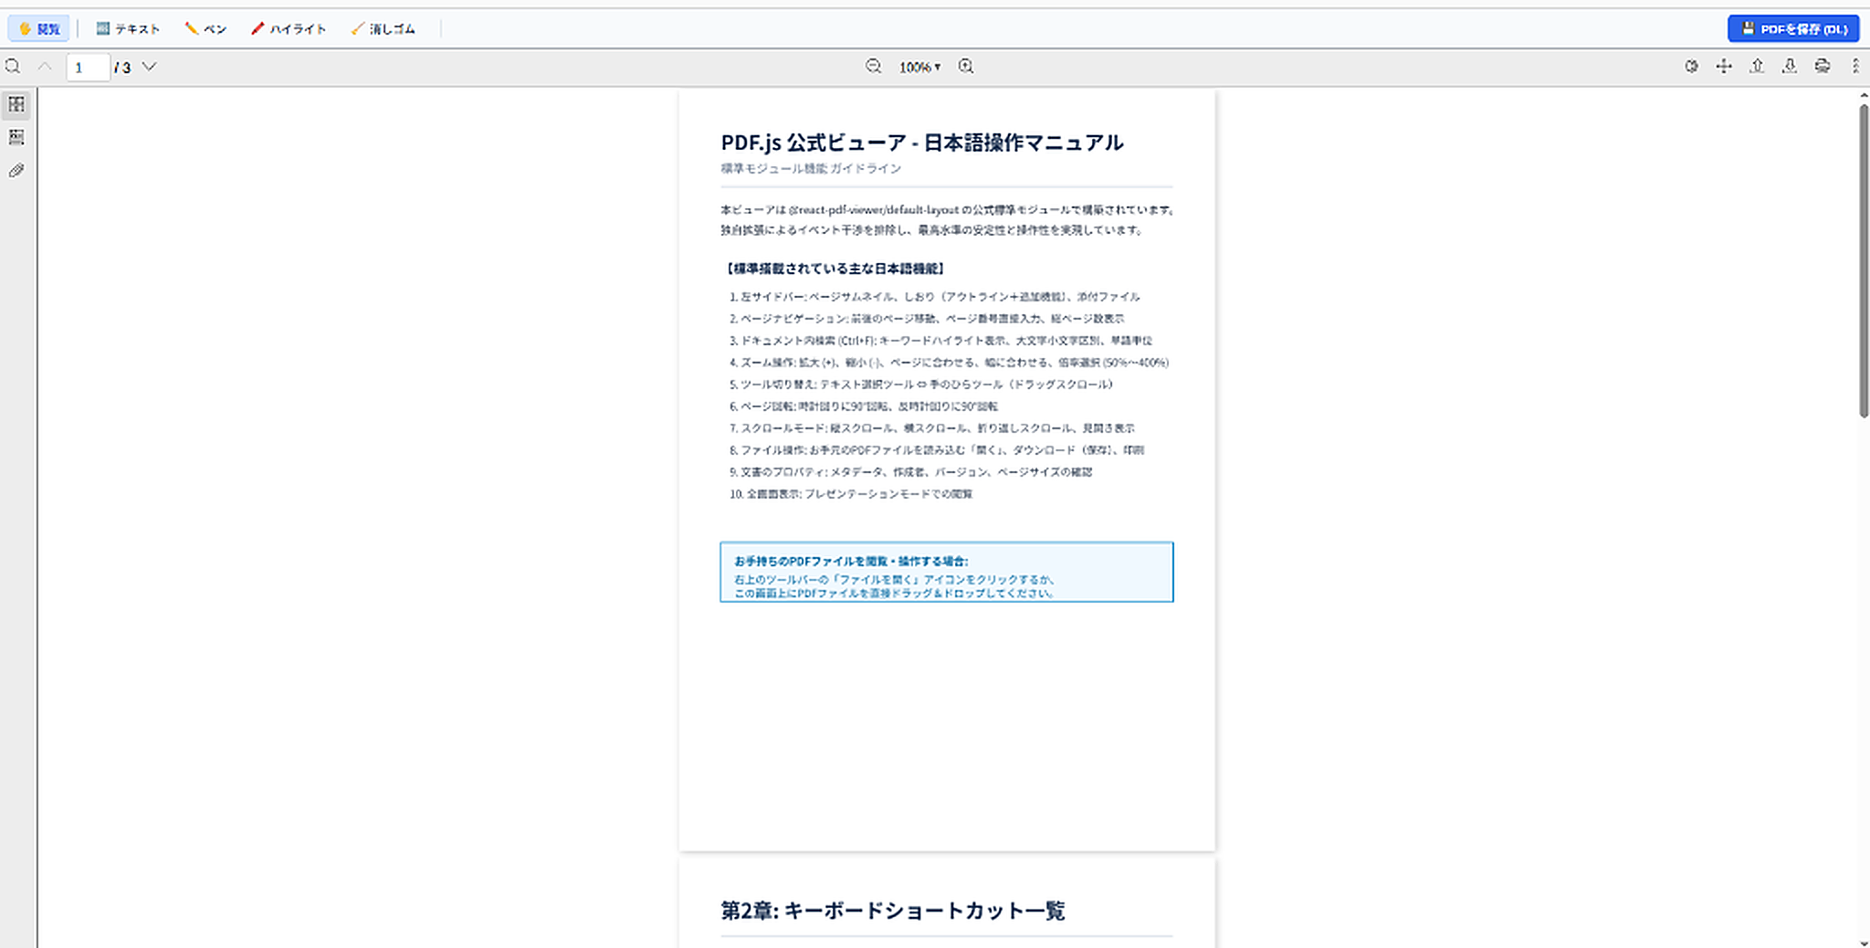
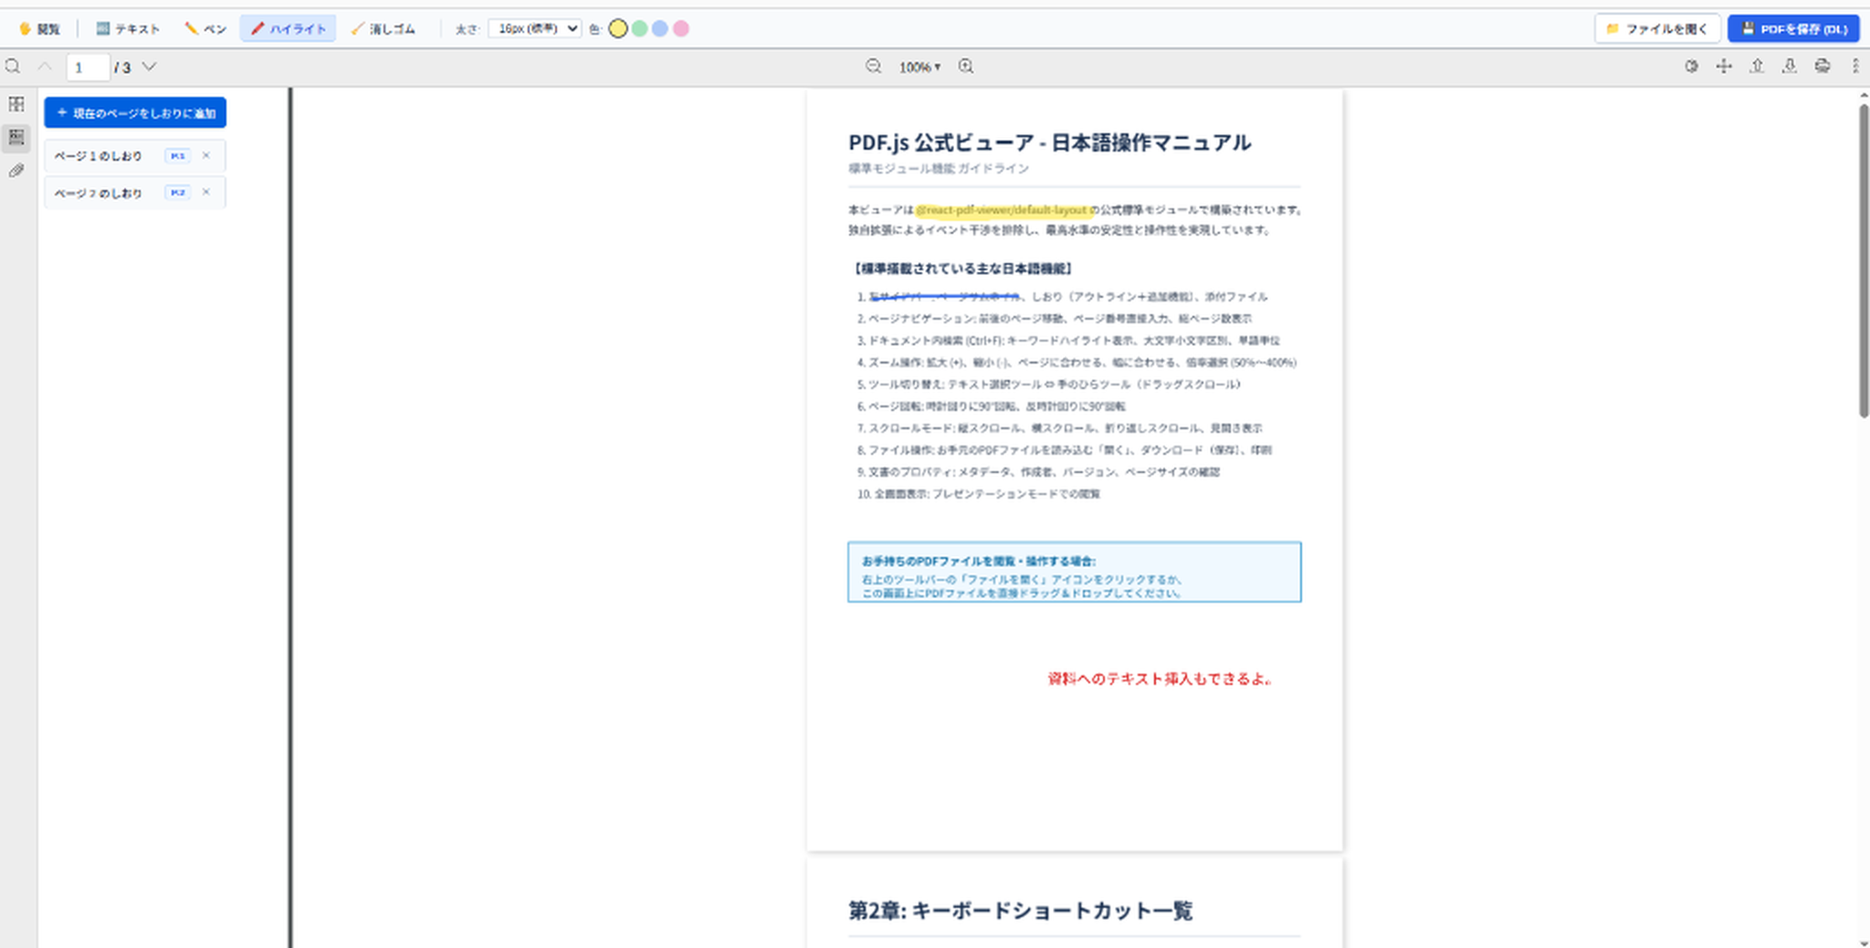
docs: Update README and screenshot with new features and text editing improvements

diff --git a/components/AnnotationLayer.jsx b/components/AnnotationLayer.jsx
@@ -293,7 +293,6 @@ function AnnotationText({
     const textValueRef = useRef(annotation.text || '');
     const inputRef = useRef(null);
     const isComposingRef = useRef(false);
-    const isCommittingRef = useRef(false);
     const lastCommitTimeRef = useRef(0);
     // ドラッグリスナーの参照を保持し、アンマウント時に確実にクリーンアップ
     const dragListenersRef = useRef(null);
@@ -317,7 +316,12 @@ function AnnotationText({
     // 編集モードになったら自動フォーカス
     useEffect(() => {
         if (isEditing) {
-            isCommittingRef.current = false;
+            // 編集中は移動用のリスナーを残さず、マウス操作を入力欄から分離する
+            if (dragListenersRef.current) {
+                window.removeEventListener('pointermove', dragListenersRef.current.onMove);
+                window.removeEventListener('pointerup', dragListenersRef.current.onUp);
+                dragListenersRef.current = null;
+            }
             const timer = setTimeout(() => {
                 if (inputRef.current) {
                     inputRef.current.focus();
@@ -338,8 +342,6 @@ function AnnotationText({
 
     // 確定処理：入力されたテキストで確定し、反映状態に切り替える（冪等・即時反映）
     const handleConfirm = useCallback((overrideText) => {
-        if (isCommittingRef.current) return;
-        isCommittingRef.current = true;
         lastCommitTimeRef.current = Date.now();
 
         let finalVal;
@@ -353,37 +355,39 @@ function AnnotationText({
 
         isComposingRef.current = false;
         onCommit(finalVal);
-
-        if (inputRef.current) {
-            inputRef.current.blur();
-        }
     }, [onCommit]);
 
     // フォーカスが外れた場合（blur）も自動確定
-    const handleBlur = (e) => {
-        // 「完了」ボタンや削除ボタンをクリックした時のblurはボタンのハンドラで処理するためスキップ
-        if (e.relatedTarget && e.relatedTarget.closest('.ann-text-actions')) {
-            return;
-        }
-        if (!isCommittingRef.current) {
-            const currentVal = inputRef.current ? inputRef.current.value : textValueRef.current;
-            handleConfirm(currentVal);
-        }
+    const handleBlur = () => {
+        const currentVal = inputRef.current ? inputRef.current.value : textValueRef.current;
+        handleConfirm(currentVal);
     };
 
     // キー入力処理
     const handleKeyDown = (e) => {
-        // 日本語IMEの変換中（文字変換確定のEnter）は確定させずIMEに委ねる
-        if (isComposingRef.current || e.nativeEvent?.isComposing || e.keyCode === 229) {
+        const nativeCompositionState = e.nativeEvent?.isComposing;
+        const isComposing = typeof nativeCompositionState === 'boolean'
+            ? nativeCompositionState
+            : isComposingRef.current;
+
+        // IME変換中のSpaceは変換操作なので、IMEへそのまま委ねる
+        if (isComposing) {
             return;
         }
-        if (e.key === 'Enter') {
-            e.preventDefault();
+
+        // 入力中のSpaceをPDFビューアのページ送りへ伝播させない（空白入力は許可）
+        if (e.key === ' ' || e.key === 'Spacebar' || e.code === 'Space') {
             e.stopPropagation();
-            const currentVal = inputRef.current ? inputRef.current.value : textValueRef.current;
-            handleConfirm(currentVal);
             return;
         }
+
+        if (e.key === 'Enter') {
+            e.stopPropagation();
+            e.preventDefault();
+            handleConfirm();
+            return;
+        }
+
         if (e.key === 'Escape') {
             e.preventDefault();
             e.stopPropagation();
@@ -399,7 +403,6 @@ function AnnotationText({
         if (e.target && typeof e.target.value === 'string') {
             textValueRef.current = e.target.value;
             setTextValue(e.target.value);
-            onUpdate({ text: e.target.value });
         }
     };
 
@@ -473,32 +476,34 @@ function AnnotationText({
             }}
         >
             {isEditing ? (
-                <>
+                <div
+                    onPointerDown={(e) => e.stopPropagation()}
+                    onPointerMove={(e) => e.stopPropagation()}
+                    onPointerUp={(e) => e.stopPropagation()}
+                    onMouseDown={(e) => e.stopPropagation()}
+                    onMouseMove={(e) => e.stopPropagation()}
+                    onMouseUp={(e) => e.stopPropagation()}
+                    onClick={(e) => e.stopPropagation()}
+                >
                     {/* 入力中の確定・削除アクションバー */}
                     <div 
                         className="ann-text-actions"
                         onPointerDown={(e) => e.stopPropagation()}
-                        onMouseDown={(e) => {
-                            e.preventDefault();
-                            e.stopPropagation();
-                        }}
+                        onMouseDown={(e) => e.stopPropagation()}
                         onDoubleClick={(e) => e.stopPropagation()}
                         onClick={(e) => e.stopPropagation()}
                     >
                         <button 
                             type="button"
                             className="ann-btn-confirm"
-                            onPointerDown={(e) => e.stopPropagation()}
-                            onMouseDown={(e) => {
-                                e.preventDefault();
+                            onPointerDownCapture={(e) => {
                                 e.stopPropagation();
+                                handleConfirm();
                             }}
-                            onDoubleClick={(e) => e.stopPropagation()}
                             onClick={(e) => {
                                 e.preventDefault();
                                 e.stopPropagation();
-                                const currentVal = inputRef.current ? inputRef.current.value : textValueRef.current;
-                                handleConfirm(currentVal);
+                                handleConfirm();
                             }}
                             title="テキストを確定して反映 (Enter)"
                         >
@@ -508,10 +513,7 @@ function AnnotationText({
                             type="button"
                             className="ann-btn-delete"
                             onPointerDown={(e) => e.stopPropagation()}
-                            onMouseDown={(e) => {
-                                e.preventDefault();
-                                e.stopPropagation();
-                            }}
+                            onMouseDown={(e) => e.stopPropagation()}
                             onDoubleClick={(e) => e.stopPropagation()}
                             onClick={(e) => {
                                 e.preventDefault();
@@ -533,7 +535,6 @@ function AnnotationText({
                         onChange={(e) => {
                             setTextValue(e.target.value);
                             textValueRef.current = e.target.value;
-                            onUpdate({ text: e.target.value });
                         }}
                         onCompositionStart={() => { isComposingRef.current = true; }}
                         onCompositionEnd={handleCompositionEnd}
@@ -546,7 +547,7 @@ function AnnotationText({
                         onPointerDown={(e) => e.stopPropagation()}
                         onClick={(e) => e.stopPropagation()}
                     />
-                </>
+                </div>
             ) : (
                 /* 反映状態（確定テキスト表示） */
                 <>

diff --git a/README.md b/README.md
@@ -2,7 +2,7 @@
 
 React 18、PDF.js、および pdf-lib をベースにした、高機能かつ軽量なブラウザ完結型 PDF ビューア＆アノテーション編集アプリケーションです。
 
-ローカル環境やサーバーサイドへのデータ送信を行わず、ブラウザ内のみで高速かつセキュアにPDFの閲覧・注釈追加・しおり管理・変更後の高解像度保存・印刷が完結します。
+ローカル環境やサーバーサイドへのデータ送信を一切行わず、ブラウザ内のみで高速かつセキュアにPDFの閲覧・注釈追加・しおり管理・変更後の高解像度保存・印刷が完結します。
 
 <p align="center">
   <img src="docs/images/screenshot.png" alt="Web PDF Editor & Viewer UI Screenshot" width="100%" />
@@ -12,53 +12,78 @@ React 18、PDF.js、および pdf-lib をベースにした、高機能かつ軽
 
 ## 🌟 主な機能
 
-### 1. 高度なPDF閲覧 & 操作
-- **PDF.js 公式エンジン連携**: `@react-pdf-viewer` をベースにした高速・高精細なレンダリング。
-- **完全日本語ローカライズ**: ツールバーやサイドバー、ショートカット案内を完全日本語化。
-- **サムネイル & ページ移動**: サムネイル一覧からの直感的なジャンプ、ページスクロール対応。
-- **ドラッグ＆ドロップ対応**: ローカルのPDFファイルを画面上にドラッグ＆ドロップするだけで即座に開いて編集可能。
-- **キーボードショートカット**: 印刷（Ctrl+P / Cmd+P）、拡大縮小、ページ遷移などのショートカットキーをサポート。
+### 1. 自由なPDF読み込み & 閲覧操作
+- **多彩なファイル読み込み**:
+  - 右上ツールバーの「**ファイルを開く**」ボタン
+  - キーボードショートカット (`Ctrl+O` / `Cmd+O`)
+  - ウィンドウ全体へのPDFファイルの**ドラッグ＆ドロップ**（全画面ドロップオーバーレイ表示）
+- **完全なドキュメント状態リセット**:
+  - 新しいPDFを開いた際、既存の注釈・ハイライト・しおり・ページ位置・履歴を安全に自動リセット。
+- **PDF.js 公式エンジン連携**: 高速・高精細なページレンダリング（拡大縮小・見開き・ページ回転対応）。
+- **完全日本語ローカライズ**: ツールバーやサイドバー、検索、プロパティ情報を完全日本語化。
 
 ### 2. 多彩な注釈・編集（アノテーション）機能
-- **✏ 手書きペン**: 
-  - 線の太さ（1px〜18px）およびカラー（青・赤・黒・緑・橙・紫）の柔軟なカスタマイズ。
-- **🖍 フリーハンドハイライト**: 
-  - 半透明マーカーによるフリーハンド下線・マーキング（4色対応）。
-- **💬 テキストボックス挿入**: 
-  - ツールバーからのワンクリック追加、または画面ダブルクリックによる任意位置への追加。
-  - テキストのフォントサイズ（12pt〜40pt）や文字色のリアルタイム変更。
-  - ドラッグ＆ドロップによる位置移動、インライン編集対応。
-- **📑 テキスト選択ハイライト**: 
+- **💬 テキストボックス挿入 & 高度な入力制御**:
+  - ツールバーボタンからの追加、または画面ダブルクリックによる任意座標への配置。
+  - ドラッグ＆ドロップによる位置移動、ダブルクリックによるインライン再編集。
+  - フォントサイズ（12px〜40px）および文字色（4色）のリアルタイム変更。
+  - **日本語IME・確定処理の最適化**: 変換確定のEnterとテキスト完了Enterの自動判別、Spaceキーによるビューア誤スクロール防止、入力欄外クリック（blur）や「✓ 完了」ボタンでの即座の確実な確定反映。
+- **✏ 手書きペン**:
+  - 線の太さ（1px〜18px）およびカラー（青・赤・黒・緑・橙・紫）の自由描画。
+- **🖍 フリーハンドハイライト**:
+  - 蛍光マーカー風の半透明ハイライト下線・マーキング（4色、10px〜32px）。
+- **📑 テキスト選択ハイライト**:
   - PDF文書内のテキストをマウスで選択するとポップアップが表示され、ワンクリックで4色（黄・緑・青・桃）のマーカーを付与。
-- **🧹 消しゴムツール**: 
-  - クリックまたはドラッグで、近接するペン線・ハイライト・テキストを判定してスムーズに消去。
+- **🧹 消しゴムツール**:
+  - クリックまたはドラッグで、近接するペン線・ハイライト・テキスト注釈を直感的に消去。
 
-### 3. しおり（Bookmark）管理機能
-- **カスタムしおりの追加**: 現在開いているページに対して、タイトルを指定して自由にしおりを追加可能。
-- **ページジャンプ**: しおり一覧をクリックすることで、該当ページへスムーズに自動スクロール。
+### 3. スマートなしおり（Bookmark）管理機能
+- **カスタムしおりの追加**: 現在開いているページに対して、ワンクリックで自由にしおりを追加可能。
+- **スムーズなページジャンプ**: しおり一覧をクリックすることで、該当ページへ自動スクロール。個別のしおり削除にも対応。
+- **クリーンなUI表示**: しおりが1件以上登録されている場合、空状態メッセージ（「しおりはありません」）を自動的に非表示化。
 - **文書本来のしおりの統合**: PDFファイル自身に含まれているアウトライン/目次情報も同時にサイドバー下部に表示。
 
-### 4. 変更後の高解像度PDF保存 & ダウンロード
-- **完全埋め込みエクスポート**: `pdf-lib` を使用し、手書き線・ハイライト・テキスト・しおりをPDFバイナリ構造に直接埋め込み。
-- **劣化のない高精細出力**: 300dpi相当のベクター/ラスター処理により、印刷や他ソフト（Adobe Acrobat等）で開いても文字化けや画質劣化が一切生じません。
+### 4. 作業保護（誤リロード・離脱防止機能）
+- **未保存警告（Unload Guard）**:
+  - 注釈の追加・変更・削除やしおりの編集など、未保存の変更がある状態でブラウザをリロードしたりタブを閉じようとした場合、ブラウザ標準の離脱確認ダイアログを表示して作業内容の喪失を防止。
 
-### 5. ネイティブ印刷プレビュー
-- **注釈反映済みの印刷**: 通常のPDF.js印刷では反映されない書き込み・テキスト内容を、独自バックエンド処理により変更後PDFとして瞬時に合成。
-- **ブラウザネイティブ印刷ダイアログ**: ブラウザ本来の印刷機能を呼び出し、A4用紙やプリンター設定に合わせて正確に印刷可能。
+### 5. 変更後の高解像度PDF保存 & ダウンロード
+- **完全クライアントサイド埋め込みエクスポート**:
+  - `pdf-lib` を使用し、手書き線・ハイライト・テキスト・しおりをPDFバイナリ構造に直接埋め込み。
+- **高い互換性と高精細出力**:
+  - 印刷や外部ソフト（Adobe Acrobat、Chrome等）で開いても文字化けや画質劣化が一切生じません。
+
+### 6. ネイティブ印刷プレビュー
+- **注釈反映済みの印刷**:
+  - 通常のPDF.js印刷では反映されない書き込み・テキスト内容を、独自バックエンド処理により変更後PDFとして瞬時に合成。
+- **ブラウザネイティブ印刷ダイアログ**:
+  - ブラウザ本来の印刷機能を呼び出し、A4用紙やプリンター設定に合わせて正確に印刷可能。
+
+---
+
+## ⌨ キーボードショートカット
+
+| ショートカット | 機能 |
+| :--- | :--- |
+| `Ctrl + O` / `Cmd + O` | PDFファイルを開く（ファイル選択ダイアログ） |
+| `Ctrl + P` / `Cmd + P` | 印刷プレビュー（注釈反映済み印刷） |
+| `Enter` | テキストボックス入力の完了・確定 |
+| `Escape` | テキストボックス編集の終了 |
+| `Delete` / `Backspace` | 選択中のテキストボックス・注釈を削除 |
+| `Ctrl + スクロール` | 画面の拡大・縮小 |
 
 ---
 
 ## 🛠 技術スタック
 
-| 分類 | ライブラリ / 技術 |
-| :--- | :--- |
-| **フロントエンド** | React 18, React DOM |
-| **ビルドツール** | Vite 5 |
-| **PDFビューア** | `@react-pdf-viewer/core`, `@react-pdf-viewer/default-layout`, `@react-pdf-viewer/highlight` |
-| **PDFレンダラー** | `pdfjs-dist` (3.11) |
-| **PDF編集・生成** | `pdf-lib` |
-| **言語** | JavaScript (ES Modules, JSX) |
-| **スタイル** | CSS3 (Modern Flexbox, CSS Variables) |
+| 分類 | ライブラリ / 技術 | 用途 |
+| :--- | :--- | :--- |
+| **フロントエンド** | React 18, React DOM | UIコンポーネントおよび状態管理 |
+| **ビルドツール** | Vite 5 | 高速開発環境および最適化バンドル |
+| **PDFビューア** | `@react-pdf-viewer/core`, `@react-pdf-viewer/default-layout`, `@react-pdf-viewer/highlight` | PDF.jsラッパー・ビューアUI |
+| **PDFエンジン** | `pdfjs-dist` (3.11) | PDFレンダリングコア |
+| **PDF編集・合成** | `pdf-lib` | クライアントサイドでのPDFバイナリ編集・保存 |
+| **言語・スタイル** | JavaScript (ES Modules, JSX), CSS3 | レスポンシブデザイン・テーマ制御 |
 
 ---
 
@@ -72,8 +97,8 @@ React 18、PDF.js、および pdf-lib をベースにした、高機能かつ軽
 
 ```bash
 # リポジトリのクローン
-git clone https://github.com/<your-username>/web-pdf-editor.git
-cd web-pdf-editor
+git clone https://github.com/kimuchi0141/Web-pdf-editor.git
+cd Web-pdf-editor
 
 # 依存パッケージのインストール
 npm install
@@ -94,16 +119,19 @@ npm run preview
 
 ```text
 src/
-├── assets/                  # 静的アセット（アイコン、画像）
+├── assets/                  # 静的アセット（アイコン、画像等）
 ├── components/              # UIコンポーネント
 │   ├── AnnotationLayer.css  # アノテーション描画レイヤースタイル
 │   ├── AnnotationLayer.jsx  # SVGベースの手書き・テキスト編集レイヤー
 │   ├── AnnotationToolbar.css# 編集ツールバースタイル
-│   ├── AnnotationToolbar.jsx# ツールバー（ペン、マーカー、フォント設定等）
+│   ├── AnnotationToolbar.jsx# ツールバー（ペン、マーカー、フォント設定、ファイル読み込み等）
 │   ├── PrintPreviewModal.css# 印刷プレビューモーダルスタイル
 │   └── PrintPreviewModal.jsx# 変更後PDF印刷プレビュー用モーダル
 ├── contexts/                # 状態管理（React Context）
-│   └── AnnotationContext.jsx# アノテーション・ツールの統合状態管理
+│   └── AnnotationContext.jsx# アノテーション・ツール・しおりの統合状態管理
+├── docs/                    # ドキュメント・スクリーンショット用画像
+│   └── images/
+│       └── screenshot.png   # アプリケーション画面スクリーンショット
 ├── locales/                 # 国際化リソース
 │   └── ja_JP.json           # @react-pdf-viewer 日本語ローカライズ辞書
 ├── plugins/                 # @react-pdf-viewer 拡張プラグイン
@@ -126,17 +154,17 @@ src/
 
 本プロジェクトは、長時間利用や大規模PDFの取り扱いにも耐えうる設計を行っています：
 
-1. **メモリリークの完全防止**:
-   - 動的に生成される `Blob URL` は、コンポーネントのアンマウント時やファイル更新時に `URL.revokeObjectURL()` で確実に解放。
-   - イベントリスナー（ドラッグ操作、グローバルキーボード監視）の参照管理とクリーンアップ。
-2. **React Hooks の厳格な設計**:
+1. **完全クライアントサイド・ゼロサーバー送信**:
+   - 読み込んだPDFデータや編集内容は一切サーバーに送信されません。機密文書や個人情報を含む書類も安心して編集できます。
+2. **徹底したメモリリーク防止**:
+   - 動的に生成される `Blob URL` は、コンポーネントのアンマウント時やPDFファイル切り替え時に `URL.revokeObjectURL()` で確実に解放。
+   - ドラッグ操作やキーボード監視イベントリスナーをライフサイクルに応じて確実にクリーンアップ。
+3. **React Hooks の厳格な設計**:
    - `@react-pdf-viewer` の内部フック仕様に準拠し、レンダリングごとのフックキュー破損（`Should have a queue`）を防止。
-   - コールバック内で最新値を参照するための `useRef` パターンを採用し、不要なコンポーネントの再マウントを抑制。
-3. **描画負荷・メインスレッドの最適化**:
-   - サンプルPDF生成・Canvasラスタライズ処理における過剰な解像度スケールを最適化し、初期メモリフットプリントを大幅に削減。
+   - コールバック内で最新値を参照するための `useRef` パターンを採用し、不要なコンポーネント再マウントを抑制。
 4. **複数編集操作の整合性保証**:
    - 連番インクリメンタルカウンターによるユニークID生成で、高速編集時の注釈ID重複を防止。
-   - テキスト入力の確定処理を1箇所に集約し、フォーカス外れ時の二重コミット競合を解消。
+   - テキスト入力の確定処理をステートマシン化し、入力確定とイベント発火の競合を解消。
 
 ---
 
